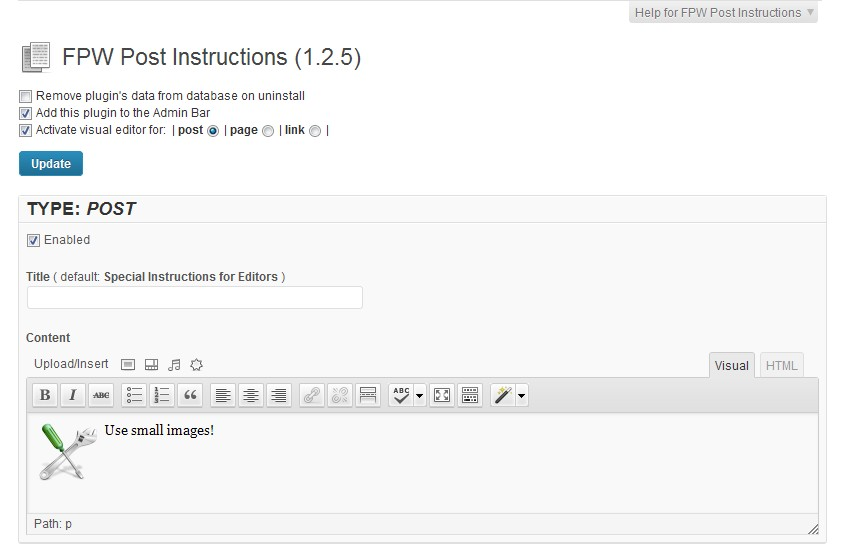
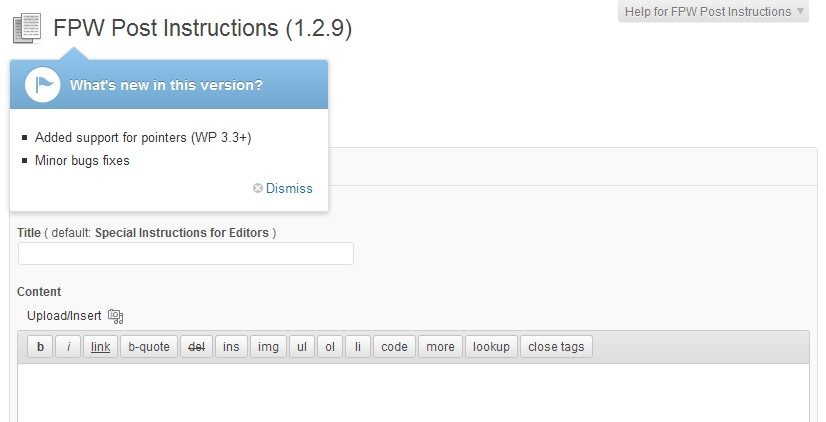
Start version 1.2.9
git-svn-id: https://plugins.svn.wordpress.org/fpw-post-instructions/trunk@533267 b8457f37-d9ea-0310-8a92-e5e31aec5664

diff --git a/classes/fpw-post-instructions.class.php b/classes/fpw-post-instructions.class.php
@@ -36,25 +36,25 @@ class fpwPostInstructions {
 
 		register_activation_hook( __FILE__, array( &$this, 'pluginActivate' ) );
 		
-		//	Read plugin's options
+		//	read plugin's options
 		$this->pluginOptions = $this->getPluginOptions();
 
 		if ( '3.1' <= $this->wpVersion ) {
-			if ( isset( $_POST[ 'abar' ] ) ) 
-				$this->pluginOptions[ 'abar' ] = ( $_POST[ 'abar' ] == 'yes' ); 
+			if ( isset( $_POST[ 'fpw_post_instructions_submit' ] ) || isset( $_POST[ 'fpw_post_instructions_submit_top' ] ) )  
+				$this->pluginOptions[ 'abar' ] = ( isset( $_POST[ 'abar' ] ) ) ? true : false; 
 			if ( $this->pluginOptions[ 'abar' ] ) 
 				add_action( 'admin_bar_menu', array( &$this, 'pluginToAdminBar' ), 1020 );
 		}
 			
 	}
 
-	//	Register plugin's textdomain 
+	//	register plugin's textdomain 
 	//	for translations
 	public function loadTextDomain() {
 		load_plugin_textdomain( 'fpw-fpi', false, 'fpw-post-instructions/languages/' );
 	}	
 
-	//	Register plugin's menu in Settings
+	//	register plugin's menu in Settings
 	public function addToSettingsMenu() {
 			
 		$pageTitle = __('FPW Post Instructions', 'fpw-fpi') . ' (' . $this->pluginVersion . ')';
@@ -63,19 +63,20 @@ class fpwPostInstructions {
 		add_action( 'admin_enqueue_scripts', array( &$this, 'enqueueScripts' ) );
 	
 		if ( '3.3' <= $this->wpVersion ) {
+			add_action( 'admin_enqueue_scripts', array( &$this, 'enqueuePointerScripts' ) );
 			add_action( 'load-' . $this->pluginPage, array( &$this, 'help33' ) );
 		} else {
 			add_filter( 'contextual_help', array( &$this, 'help' ), 10, 3 );
 		}
 	}
 
-	//	Add plugin's contextual help ( 3.3+ )
+	//	add plugin's contextual help ( 3.3+ )
 	public function help33() {
 		if ( '3.3' <= $this->wpVersion ) 
 			include $this->pluginPath . '/help/help33.php';
 	}
 
-	//	Add plugin's contextual help ( < 3.3 )
+	//	add plugin's contextual help ( < 3.3 )
 	public function help( $contextual_help, $screen_id, $screen ) {
 		if ( $screen_id == $this->pluginPage ) {
 			include $this->pluginPath . '/help/help.php';
@@ -83,14 +84,54 @@ class fpwPostInstructions {
 		return $contextual_help; 
 	}
 
-	//	Register styles, scripts, and localize javascript
+	//	register styles, scripts, and localize javascript
 	public function enqueueScripts( $hook ) {
 		if ( 'settings_page_fpw-post-instructions' == $hook ) {
 			include $this->pluginPath . '/code/enqueuescripts.php';			
 		}
 	}
 
-	//	Get plugin's options ( add if does not exists )
+	//	enqueue pointer scripts
+	public function enqueuePointerScripts( $hook ) {
+		$proceed = false;
+		$dismissed = explode( ',', (string) get_user_meta( get_current_user_id(), 'dismissed_wp_pointers', true ) );
+		if ( !in_array( 'fpwfpi129', $dismissed ) && apply_filters( 'show_wp_pointer_admin_bar', TRUE ) ) {
+			$proceed = true;
+			add_action( 'admin_print_footer_scripts', array( &$this, 'custom_print_footer_scripts' ) );
+		}
+		if ( $proceed ) {
+    		wp_enqueue_style('wp-pointer');
+    		wp_enqueue_script('wp-pointer');
+    		wp_enqueue_script('utils');
+		}
+	}
+
+	// 	handle pointer
+	public function custom_print_footer_scripts() {
+    	$pointerContent  = '<h3>' . esc_js( __( "What's new in this version?", 'fpw-fct' ) ) . '</h3>';
+		$pointerContent .= '<li style="margin-left:25px;margin-top:20px;list-style:square">' . __( 'Added support for pointers', 'fpw-fct' ) . ' (WP 3.3+)</li>';
+		$pointerContent .= '<li style="margin-left:25px;list-style:square">' . __( 'Minor bugs fixes', 'fpw-fct' ) . '</li>';
+    	?>
+    	<script type="text/javascript">
+    	// <![CDATA[
+    		jQuery(document).ready( function($) {
+        		$('#fpi-settings-title').pointer({
+        			content: '<?php echo $pointerContent; ?>',
+        			position: 'top',
+            		close: function() {
+						jQuery.post( ajaxurl, {
+							pointer: 'fpwfpi129',
+							action: 'dismiss-wp-pointer'
+						});
+            		}
+				}).pointer('open');
+			});
+    	// ]]>
+    	</script>
+    	<?php
+	}
+
+	//	get plugin's options ( add if does not exists )
 	private function getPluginOptions() {
 	
 		$opt = get_option( 'fpw_post_instructions_options' );
@@ -114,7 +155,7 @@ class fpwPostInstructions {
 		return $opt;
 	}
 	
-	//	Add plugin to admin bar ( WordPress 3.1+ )	
+	//	add plugin to admin bar ( WordPress 3.1+ )	
 	public function pluginToAdminBar() {
 		if ( current_user_can( 'manage_options' ) ) {
 			global $wp_admin_bar;
@@ -133,7 +174,7 @@ class fpwPostInstructions {
 			if ( '3.3' <= $this->wpVersion ) {
 				$addmain = ( is_array( $wp_admin_bar->get_node( 'fpw_plugins' ) ) ) ? false : true;
 			} else {
-				$addmain = ( is_array( $wp_admin_bar->menu->fpw_plugins ) ) ? false : true;
+				$addmain = ( isset( $wp_admin_bar->menu->fpw_plugins ) ) ? false : true;
 			} 
 
 			if ( $addmain )
@@ -142,7 +183,7 @@ class fpwPostInstructions {
 		}
 	}
 	
-	//	Uninstall file maintenance
+	//	uninstall file maintenance
 	public function pluginActivate() {
 		//	if cleanup requested make uninstall.php otherwise make uninstall.txt
 		if ( $this->pluginOptions[ 'clean' ] ) {
@@ -154,7 +195,7 @@ class fpwPostInstructions {
 		}
 	}	
 	
-	//	Add update information after plugin meta
+	//	add update information after plugin meta
 	public function afterPluginMeta( $file, $plugin_data ) {
 		$current = get_site_transient( 'update_plugins' );
 		if ( !isset( $current -> response[ $file ] ) ) 
@@ -165,21 +206,21 @@ class fpwPostInstructions {
 			'<img class="alignleft" src="' . $this->pluginUrl . '/Thumbs_Up.png" width="64">' . $update . '</div></td></tr>';
 	}
 
-	//	Add link to Donation to plugins meta
+	//	add link to Donation to plugins meta
 	public function pluginMetaLinks( $links, $file ) {
 		if ( 'fpw-post-instructions/fpw-post-instructions.php' == $file ) 
 			$links[] = '<a href="http://fw2s.com/payments-and-donations/" target="_blank">' . __( "Donate", "fpw-fpi" ) . '</a>';
 		return $links;
 	}
 
-	//	Add link to settings page in plugins list
+	//	add link to settings page in plugins list
 	public function pluginLinks( $links, $file ) {
    		$settings_link = '<a href="' . site_url( '/wp-admin/' ) . 'options-general.php?page=fpw-post-instructions">' . __( 'Settings', 'fpw-fpi' ) . '</a>';
 		array_unshift( $links, $settings_link );
     	return $links;
 	}
 
-	//	Plugin's settings page
+	//	plugin's settings page
 	public function pluginSettings() {
 	
 		/*	get custom post type names array */
@@ -201,8 +242,10 @@ class fpwPostInstructions {
 		/*	get options array */
 		$this->pluginOptions = $this->getPluginOptions();
 	
-		$old_visual = $this->pluginOptions[ 'visual' ];
-		$old_visual_type = $this->pluginOptions[ 'visual-type' ];
+		if ( '3.3' > $this->wpVersion ) {
+			$old_visual = $this->pluginOptions[ 'visual' ];
+			$old_visual_type = $this->pluginOptions[ 'visual-type' ];
+		}
 
 		foreach ( $post_type_names as $post_type_name ) {
 			if ( !is_array( $this->pluginOptions[ 'types' ][ $post_type_name ] ) )
@@ -217,18 +260,18 @@ class fpwPostInstructions {
 			}
 
 		/*	check if changes were submitted */
-		if ( ( $_POST[ 'fpw_post_instructions_submit' ] ) || ( $_POST[ 'fpw_post_instructions_submit_top' ] ) ) {
+		if ( isset( $_POST[ 'fpw_post_instructions_submit' ] ) || isset( $_POST[ 'fpw_post_instructions_submit_top' ] ) ) {
 			if ( !isset( $_POST[ 'fpw-post-instructions-nonce' ] ) ) 
 				die( '<br />&nbsp;<br /><p style="padding-left: 20px; color: red"><strong>' . __( 'You did not send any credentials!', 'fpw-fpi' ) . '</strong></p>' );
 			if ( !wp_verify_nonce( $_POST[ 'fpw-post-instructions-nonce' ], 'fpw-post-instructions-nonce' ) ) 
 				die( '<br />&nbsp;<br /><p style="padding-left: 20px; color: red;"><strong>' . __( 'You did not send the right credentials!', 'fpw-fpi' ) . '</strong></p>' );
 
 			foreach ( $post_type_names as $post_type_name ) {
-				$this->pluginOptions[ 'types' ][ $post_type_name ][ 'enabled' ] = ( 'yes' == $_POST[ $post_type_name . '-enabled' ] );
+				$this->pluginOptions[ 'types' ][ $post_type_name ][ 'enabled' ] = ( isset( $_POST[ $post_type_name . '-enabled' ] ) ) ? true : false;
 				$this->pluginOptions[ 'types' ][ $post_type_name ][ 'title' ] = stripslashes( $_POST[ $post_type_name . '-title' ] );
 			
 				if ( '3.3' > $this->wpVersion ) {
-					$this->pluginOptions[ 'visual' ] = ( 'yes' == $_POST[ 'visual' ] );
+					$this->pluginOptions[ 'visual' ] = ( isset( $_POST[ 'visual' ] ) ) ? true : false;
 					$this->pluginOptions[ 'visual-type' ] = $_POST[ 'fpw-radio-visual' ];
 
 					if ( $this->allowedVisual && $old_visual && ( $post_type_name == $old_visual_type ) ) {
@@ -241,10 +284,10 @@ class fpwPostInstructions {
 				}
 			}
 		
-			$this->pluginOptions[ 'clean' ] = ( 'yes' == $_POST[ 'cleanup' ] );
+			$this->pluginOptions[ 'clean' ] = ( isset( $_POST[ 'cleanup' ] ) ) ? true : false;
 
 			if ( '3.1' <= $this->wpVersion )
-				$this->pluginOptions[ 'abar' ] = ( 'yes' == $_POST[ 'abar' ] );
+				$this->pluginOptions[ 'abar' ] = ( isset( $_POST[ 'abar' ] ) ) ? true : false;
 		
 			$update_ok = update_option( 'fpw_post_instructions_options', $this->pluginOptions );
 		
@@ -255,10 +298,10 @@ class fpwPostInstructions {
 
 		//	HTML of settings page starts here
 		echo '<div class="wrap">';
-		echo '<div id="icon-edit-pages" class="icon32"></div><h2>' . __( 'FPW Post Instructions', 'fpw-fpi' ) . ' (' . $this->pluginVersion . ')</h2>';
+		echo '<div id="icon-edit-pages" class="icon32"></div><h2 id="fpi-settings-title">' . __( 'FPW Post Instructions', 'fpw-fpi' ) . ' (' . $this->pluginVersion . ')</h2>';
 
 		//	display message about update status
-		if ( ( $_POST[ 'fpw_post_instructions_submit' ] ) || ( $_POST[ 'fpw_post_instructions_submit_top' ] ) )
+		if ( isset( $_POST[ 'fpw_post_instructions_submit' ] ) || isset( $_POST[ 'fpw_post_instructions_submit_top' ] ) )
 			if ( $update_ok ) {
 				echo '<div id="message" class="updated fade"><p><strong>' . __( 'Updated successfully.', 'fpw-fpi' ) . '</strong></p></div>';
 			} else {

diff --git a/fpw-post-instructions.php b/fpw-post-instructions.php
@@ -6,7 +6,7 @@ Description: Adds metaboxes to admin editing screens for posts, pages, links,
 and custom post types with instructions for editors.
 
 Plugin URI: http://fw2s.com/fpw-post-instructions-plugin/
-Version: 1.2.8
+Version: 1.2.9
 Author: Frank P. Walentynowicz
 Author URI: http://fw2s.com/
 
@@ -25,8 +25,9 @@ along with this program; if not, write to the Free Software
 Foundation, Inc., 51 Franklin St, Fifth Floor, Boston, MA  02110-1301  USA
 */
 
+//	back end only
 if ( is_admin() ) {
 	require_once dirname(__FILE__) . '/classes/fpw-post-instructions.class.php';
-	new fpwPostInstructions( dirname(__FILE__), '1.2.8' );
+	new fpwPostInstructions( dirname(__FILE__), '1.2.9' );
 }
 ?>

diff --git a/code/enqueuescripts.php b/code/enqueuescripts.php
@@ -11,8 +11,8 @@
 			if ( '3.3' > $this->wpVersion ) {
 
 				/*	check if changes were submitted */
-				if ( ( $_POST[ 'fpw_post_instructions_submit' ] ) || ( $_POST[ 'fpw_post_instructions_submit_top' ] ) ) {
-					$visual_checked = ( 'yes' == $_POST[ 'visual' ] );
+				if ( isset( $_POST[ 'fpw_post_instructions_submit' ] ) || isset( $_POST[ 'fpw_post_instructions_submit_top' ] ) ) {
+					$visual_checked = ( isset( $_POST[ 'visual' ] ) ) ? true : false;
 				} else {
 					/*	get options array */
 					$opt = $this->getPluginOptions();
